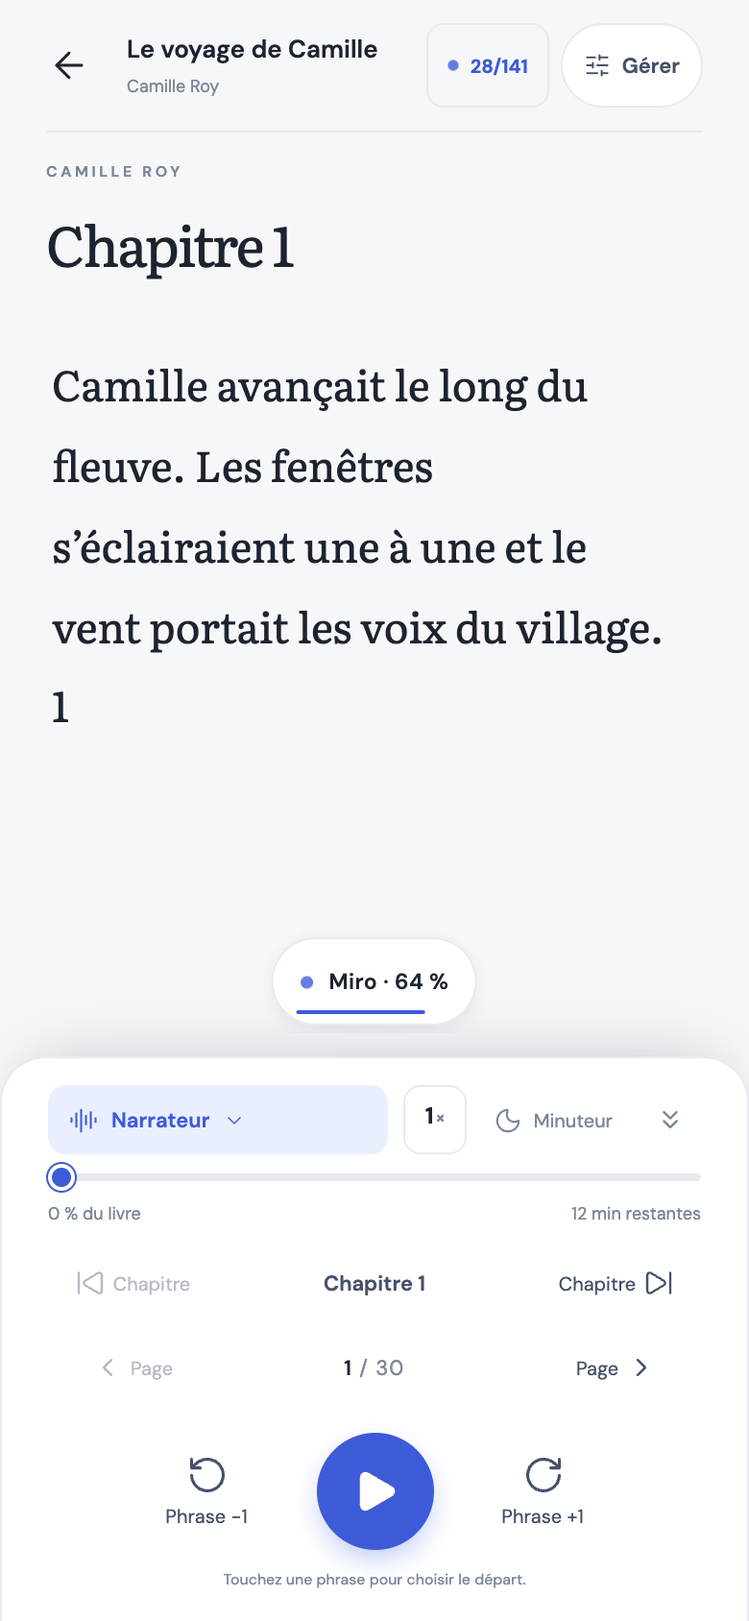
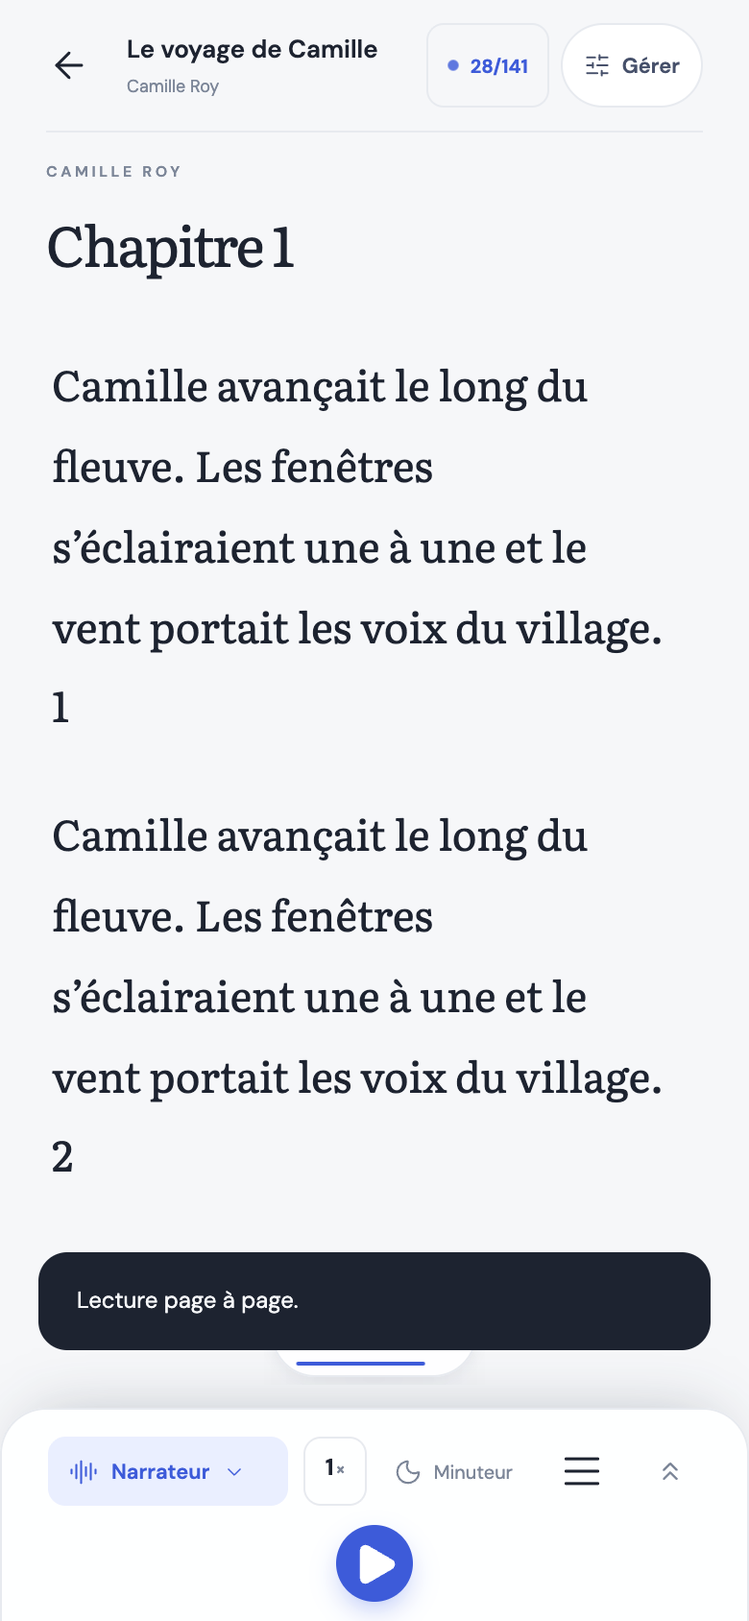
ADD: apercu sonore par voix et mini lecteur avec repagination reelle

Changed region(s): [[0.0308, 0.5545, 0.9538, 1.0], [0.0615, 0.4929, 0.8, 0.5545], [0.6462, 0.955, 0.6769, 0.9858]]

diff --git a/src/mobile/main.ts b/src/mobile/main.ts
@@ -75,6 +75,9 @@ let page = 0;
 let pages: Page[] = [];
 let pagesKey = '';
 let pagesChapter = -1;
+/** Hauteur du lecteur au dernier découpage : les pages suivent l'espace réel,
+ *  mini-lecteur ou commandes complètes. */
+let pagesHauteur = -1;
 let fontsChecked = false;
 /** Les défilements déclenchés par l'app sont ignorés par la détection de geste. */
 let scrollGuard = 0;
@@ -292,10 +295,10 @@ function playerHTML() {
   const speaker = characterAt(book, book.position)?.name || '';
   const focus = Boolean(settings.focus);
   const status = audio.state.error || (audio.state.preparing?`Préparation ${audio.state.prepared ?? 0} / ${audio.state.total ?? 0} passages`:audio.state.loading?`${speaker?`${speaker} · `:''}La voix prépare le prochain passage…`:isPlaying?`${speaker?`${esc(speaker)} · `:''}${esc(chapter.title)} — laissez l’histoire vous emporter.`:'Touchez une phrase pour choisir le départ.');
-  return `<section class="player ${focus ? 'reduit' : ''}" aria-label="Lecteur audio"><div class="player-top"><button class="voice-chip" data-action="choose-voice">${icon('audio-lines')}<span>${esc(characterAt(book, book.position)?.name || voiceName())}</span>${icon('chevron-down')}</button><button class="speed-chip" data-action="speed" aria-label="Vitesse de ${esc(voiceName())}">${settings.rate.toLocaleString('fr')}<span>×</span></button><button class="sleep-chip ${audio.state.sleepAt?'on':''}" data-action="sleep">${icon('moon')}${audio.state.sleepAt?`${Math.max(1,Math.ceil((audio.state.sleepAt-Date.now())/60000))} min`:'Minuteur'}</button><button class="icon-button focus-button" data-action="focus" aria-label="${focus?'Afficher les commandes':'Réduire le lecteur'}">${icon(focus?'chevrons-up':'chevrons-down')}</button></div>
+  return `<section class="player ${focus ? 'reduit' : ''}" aria-label="Lecteur audio"><div class="player-top"><button class="voice-chip" data-action="choose-voice">${icon('audio-lines')}<span>${esc(characterAt(book, book.position)?.name || voiceName())}</span>${icon('chevron-down')}</button><button class="speed-chip" data-action="speed" aria-label="Vitesse de ${esc(voiceName())}">${settings.rate.toLocaleString('fr')}<span>×</span></button><button class="sleep-chip ${audio.state.sleepAt?'on':''}" data-action="sleep">${icon('moon')}${audio.state.sleepAt?`${Math.max(1,Math.ceil((audio.state.sleepAt-Date.now())/60000))} min`:'Minuteur'}</button><button class="icon-button" data-action="layout" aria-label="${settings.layout === 'pages' ? 'Passer en défilement continu' : 'Passer en lecture page à page'}">${icon(settings.layout === 'pages' ? 'align-justify' : 'book-open')}</button><button class="icon-button focus-button" data-action="focus" aria-label="${focus?'Afficher les commandes':'Réduire le lecteur'}">${icon(focus?'chevrons-up':'chevrons-down')}</button></div>
     <label class="sr-only" for="progress">Position dans le livre</label><input class="progress-slider" id="progress" type="range" min="0" max="${book.segments.length-1}" value="${Math.min(book.position,book.segments.length-1)}" style="--progress:${progress(book)}" /><div class="time-row"><span>${percent(book)} % du livre</span><span>${book.completed?'Lecture terminée':`${minutes(book)} restantes`}</span></div>
     ${readerNavigationView(book, settings.layout)}
-    <div class="transport"><button class="sentence-jump" data-action="previous" aria-label="Revenir d’une phrase">${icon('rotate-ccw')}<span>Phrase −1</span></button><button class="play-button ${audio.state.loading?'loading':''}" data-action="toggle" aria-label="${isPlaying?'Mettre en pause':'Lire à voix haute'}">${icon(audio.state.loading?'loader-circle':isPlaying?'pause':'play')}</button><button class="sentence-jump" data-action="next" aria-label="Avancer d’une phrase">${icon('rotate-cw')}<span>Phrase +1</span></button></div><p class="player-status" aria-live="polite">${esc(status)}</p></section>`;
+    <div class="transport"><button class="sentence-jump" data-action="previous" aria-label="Revenir d’une phrase">${icon('rotate-ccw')}<span>Phrase −1</span></button><button class="play-button ${audio.state.loading?'loading':''}" data-action="toggle" aria-label="${isPlaying?'Mettre en pause':'Lire à voix haute'}">${icon(audio.state.loading?'loader-circle':isPlaying?'pause':'play')}</button><button class="sentence-jump" data-action="next" aria-label="Avancer d’une phrase">${icon('rotate-cw')}<span>Phrase +1</span></button></div><p class="player-status" aria-live="polite">${esc(status)}</p><span class="player-mini-progress" style="width:${percent(book)}%" aria-hidden="true"></span></section>`;
 }
 function nowBar() {
   return `<aside class="now-bar" id="now-bar" hidden data-action="follow" role="button" tabindex="0" aria-label="Revenir à la phrase en cours"><span class="now-wave" aria-hidden="true"><b></b><b></b><b></b></span><div class="now-copy"><small>EN COURS · <span id="now-chapter"></span></small><p id="now-text"></p></div><span class="now-return">${icon('locate-fixed')}<i>Revenir</i></span></aside>`;
@@ -354,7 +357,7 @@ function mountPages(reset = false) {
   const eyebrow = document.querySelector('#page-eyebrow'); const heading = document.querySelector('#page-heading');
   if (eyebrow) eyebrow.textContent = book.sample ? 'PRENDRE LE TEMPS' : book.author.toUpperCase();
   if (heading) heading.textContent = chapter.title;
-  const key = [book.id, chapter.start, settings.fontSize, settings.theme, innerWidth, innerHeight].join(':');
+  const key = [book.id, chapter.start, settings.fontSize, settings.theme, innerWidth, innerHeight, pagesHauteur].join(':');
   if (reset || key !== pagesKey || pagesChapter !== chapter.start) {
     const title = document.querySelector<HTMLElement>('.page-title');
     title?.style.removeProperty('display');
@@ -404,7 +407,16 @@ function syncNowBar() {
 function observePlayer() {
   playerObserver?.disconnect();
   const player = document.querySelector<HTMLElement>('.player'); if (!player) return;
-  const apply = () => document.documentElement.style.setProperty('--player-h', `${Math.ceil(player.getBoundingClientRect().height)}px`);
+  const apply = () => {
+    const hauteur = Math.ceil(player.getBoundingClientRect().height);
+    document.documentElement.style.setProperty('--player-h', `${hauteur}px`);
+    // Le lecteur se replie ou se déplie : les pages sont redécoupées pour
+    // remplir l'espace réellement disponible, jamais avec une hauteur périmée.
+    if (hauteur !== pagesHauteur) {
+      pagesHauteur = hauteur;
+      if (screen === 'reader' && settings.layout === 'pages' && document.querySelector('#page-text')) mountPages();
+    }
+  };
   apply();
   playerObserver = new ResizeObserver(apply);
   playerObserver.observe(player);
@@ -966,6 +978,27 @@ async function handle(action: string, el: HTMLElement) {
     case 'listen': await openBook(id, true); break;
     case 'toggle': if (audio.state.playing || audio.state.loading) await audio.pause(); else if (book) { if (audio.state.bookId !== book.id) await audio.load(book, settings); await requestChapterPlayback(book); } break;
     case 'chapter-voices-confirm': await confirmChapterReview(); break;
+    case 'chapter-voice-preview': {
+      const review = chapterReview;
+      if (!review) break;
+      // On écoute la voix sélectionnée dans la liste, pas seulement la proposée.
+      const select = sheet.querySelector<HTMLSelectElement>(`[data-role-id="${id}"]`);
+      const voice = select?.value.trim() || 'system:default';
+      const chapter = review.book.chapters.find(c => c.start === review.start);
+      let text = '';
+      if (chapter) for (let i = chapter.start; i < chapter.end && !text; i++) {
+        if (review.book.casting?.assignments[String(i)] === id) text = review.book.segments[i];
+      }
+      const role = review.choices.find(c => c.role.id === id)?.role;
+      const demo = welcomeBook();
+      demo.id = 'voice-preview'; demo.title = 'Aperçu de la voix';
+      demo.segments = [text || `Bonjour, je m’appelle ${role?.name ?? 'ce personnage'}. Voici la voix que je proposerai pour ce livre.`];
+      await audio.pause();
+      await audio.load(demo, { ...settings, voice });
+      await audio.play();
+      toast('Aperçu de la voix en cours.');
+      break;
+    }
     case 'previous': await seekTo(audio.state.index - 1); break;
     case 'next': await seekTo(audio.state.index + 1); break;
     case 'sentence': await seekTo(Number(el.dataset.index)); break;

diff --git a/store/website/index.html b/store/website/index.html
@@ -14,7 +14,7 @@
 <main id="top"><header class="hero"><div class="eyebrow">macOS · Apple Silicon · Open source</div><h1><span class="fr">Ta voix.<br>À toi. En local.</span><span class="en">Your voice.<br>Yours. Local.</span></h1><p class="intro"><span class="fr">Enregistre ou importe une voix, écris ton texte, puis écoute le résultat. Le traitement s’effectue sur ton Mac.</span><span class="en">Record or import a voice, write your text, then listen. Processing runs on your Mac.</span></p><div class="actions"><a class="button" href="https://github.com/mondary/Macos_PKvoicecloner/releases/latest/download/PKVoiceCloner-2026.10.45.dmg"><span class="fr">Télécharger le DMG · v2026.10.45</span><span class="en">Download DMG · v2026.10.45</span> ↗</a><a class="button secondary" href="https://github.com/mondary/Macos_PKvoicecloner"><span class="fr">Voir le projet</span><span class="en">Explore the project</span></a></div><p class="note"><span class="fr">Apple Silicon · macOS 14+ · Le DMG v2026.10.45 contient l’app seule : son installation nécessite le dépôt et l’environnement Python. Voir la procédure ci-dessous.</span><span class="en">Apple Silicon · macOS 14+ · The v2026.10.45 DMG contains the app only; it requires the project checkout and Python environment. See setup below.</span></p><div class="demo"><img src="gifs/demo-large-1200.gif" alt="Démonstration du studio : bibliothèque vocale, génération et lecture du résultat" fetchpriority="high"></div></header>
 <section class="section" id="studio"><div class="section-head"><div class="overline"><span class="fr">Un studio, pas un service cloud</span><span class="en">A studio, not a cloud service</span></div><h2><span class="fr">De l’enregistrement à la voix générée.</span><span class="en">From recording to generated speech.</span></h2><p><span class="fr">Les étapes essentielles dans une interface macOS : bibliothèque vocale, textes, moteurs et génération.</span><span class="en">The essentials in a macOS interface: voice library, texts, engines and generation.</span></p></div><div class="features"><article class="feature"><b><span class="fr">Importe ou enregistre</span><span class="en">Import or record</span></b><p><span class="fr">Ajoute un fichier audio ou enregistre au micro.</span><span class="en">Add an audio file or record from your mic.</span></p></article><article class="feature"><b><span class="fr">Transcris et ajuste</span><span class="en">Transcribe and edit</span></b><p><span class="fr">Relis le texte reconnu avant de l’utiliser.</span><span class="en">Review the recognized text before using it.</span></p></article><article class="feature"><b><span class="fr">Choisis un moteur</span><span class="en">Choose an engine</span></b><p><span class="fr">Installe et sélectionne les modèles compatibles depuis le studio.</span><span class="en">Install and select supported models in the studio.</span></p></article><article class="feature"><b><span class="fr">Lire au fil de l’eau</span><span class="en">Live reading</span></b><p><span class="fr">Le bouton Lire fait entendre chaque phrase dès qu’elle est prête ; Générer produit la prise complète, exportable.</span><span class="en">One button plays each sentence as soon as it is ready; Generate produces the full, exportable take.</span></p></article></div><div class="screens"><figure><img src="screenshots/voix-reference@2x.png" alt="Bibliothèque de voix et référence audio" loading="lazy"><figcaption><span class="fr">Bibliothèque de voix</span><span class="en">Voice library</span></figcaption></figure><figure><img src="screenshots/generation-resultat@2x.png" alt="Texte, réglages de génération et lecteur audio" loading="lazy"><figcaption><span class="fr">Génération et écoute</span><span class="en">Generation and playback</span></figcaption></figure></div></section>
 <section class="section" id="reader">
-<div class="section-head"><div class="overline"><span class="fr">PK Reader · Android · 2026.10.80</span><span class="en">PK Reader · Android · 2026.10.80</span></div><h2><span class="fr">Un personnage. Une voix. C’est tout.</span><span class="en">One character. One voice. That’s all.</span></h2><p><span class="fr">Importe ton livre, vérifie les passages attribués et choisis tes voix. La navigation chapitre, page et phrase est regroupée près du lecteur. Les téléchargements restent visibles dans des notifications fixes.</span><span class="en">Import your book, review assigned passages and choose your voices. Chapter, page and sentence navigation is grouped near playback. Downloads stay visible in fixed notifications.</span></p></div>
+<div class="section-head"><div class="overline"><span class="fr">PK Reader · Android · 2026.10.81</span><span class="en">PK Reader · Android · 2026.10.81</span></div><h2><span class="fr">Un personnage. Une voix. C’est tout.</span><span class="en">One character. One voice. That’s all.</span></h2><p><span class="fr">Importe ton livre, vérifie les passages attribués et choisis tes voix. Le lecteur réduit laisse plusieurs paragraphes par page, avec bascule pages/défilement. Les téléchargements restent visibles dans des notifications fixes.</span><span class="en">Import your book, review assigned passages and choose your voices. The collapsed player leaves several paragraphs per page, with a paged/scrolling toggle. Downloads stay visible in fixed notifications.</span></p></div>
 <div class="features">
 <article class="feature"><b><span class="fr">Préparer et écouter</span><span class="en">Prepare and listen</span></b><p><span class="fr">Le chapitre à écouter est analysé en priorité ; la lecture démarre pendant que le reste du livre s’analyse. Dix voix françaises Piper, dont une à 13 Mo.</span><span class="en">The chapter you want to hear is analysed first; playback starts while the rest of the book is analysed. Ten French Piper voices, one of them 13 MB.</span></p></article>
 <article class="feature"><b><span class="fr">Analyse IA sans Mac</span><span class="en">AI analysis without a Mac</span></b><p><span class="fr">Connecte ton fournisseur IA dans Réglages. Le compteur reste près de Gérer ; sans configuration, le repérage local est disponible. La durée dépend du livre et du modèle.</span><span class="en">Connect your AI provider in Settings. The counter stays beside Manage; local detection is available without configuration. Duration depends on the book and model.</span></p></article>

diff --git a/store/media-kit/settings-apropos.html b/store/media-kit/settings-apropos.html
@@ -502,9 +502,12 @@ details code { display: block; overflow-wrap: anywhere; background: var(--line-s
 .support-kofi:hover { border-color: var(--accent); }
 .chapter-voice-choices { border: 0; padding: 0; margin: 12px 0; min-width: 0; }
 .chapter-voice-choice { display: grid; gap: 8px; padding: 12px 0; border-bottom: 1px solid var(--line); }
-.chapter-voice-choice > span { display: flex; justify-content: space-between; gap: 12px; font-size: 13px; }
-.chapter-voice-choice small { color: var(--muted); font-size: 11px; }
-.chapter-voice-choice select { width: 100%; min-height: 44px; background: var(--surface); color: var(--ink); border: 1px solid var(--line); border-radius: 10px; font: inherit; padding: 10px; }
+.chapter-voice-head { display: flex; justify-content: space-between; align-items: baseline; gap: 12px; font-size: 13px; }
+.chapter-voice-head small { color: var(--muted); font-size: 11px; }
+.chapter-voice-row { display: flex; align-items: center; gap: 8px; }
+.chapter-voice-row select { flex: 1; min-width: 0; width: 100%; min-height: 44px; background: var(--surface); color: var(--ink); border: 1px solid var(--line); border-radius: 10px; font: inherit; padding: 10px; }
+.chapter-voice-row .small-button { flex: none; min-height: 44px; }
+@media (max-width: 365px) { .chapter-voice-row { flex-wrap: wrap; } .chapter-voice-row .small-button { width: 100%; } }
 .chapter-review > .primary { width: 100%; }
 .chapter-review-status { font-size: 12px; line-height: 1.6; color: var(--ink-soft); }
 @media (max-width: 720px) { .about > .support-kofi { width: 100%; margin: 4px 0 0; } }
@@ -750,10 +753,10 @@ dialog header .icon-button { width: 38px; height: 38px; }
 .casting-library-row>span{display:grid;gap:6px;min-width:0;text-align:left}
 .casting-library-row strong{overflow-wrap:anywhere}
 .casting-library-row small{color:var(--muted);font-weight:400}
-</style></head><body><div class="app-shell"><main class="main-content"><header class="page-heading"><div><p class="eyebrow">FAITES COMME CHEZ VOUS</p><h1>À votre rythme<span>.</span></h1></div><span class="build-chip">2026.10.80</span></header>
+</style></head><body><div class="app-shell"><main class="main-content"><header class="page-heading"><div><p class="eyebrow">FAITES COMME CHEZ VOUS</p><h1>À votre rythme<span>.</span></h1></div><span class="build-chip">2026.10.81</span></header>
   <div class="segmented settings-tabs" role="group" aria-label="Sections des réglages"><button data-action="settings-tab" data-id="lecture" class="" aria-pressed="false"><i data-lucide="book-open" aria-hidden="true"></i><span>Lecture</span></button><button data-action="settings-tab" data-id="voix" class="" aria-pressed="false"><i data-lucide="audio-lines" aria-hidden="true"></i><span>Voix & analyse</span></button><button data-action="settings-tab" data-id="apropos" class="active" aria-pressed="true"><i data-lucide="info" aria-hidden="true"></i><span>À propos</span></button></div>
   <div class="settings-pane">
-  <section class="update-hero" aria-labelledby="update-title"><div class="update-hero-top"><span class="update-icon"><i data-lucide="refresh-cw" aria-hidden="true"></i></span><div class="update-hero-copy"><div class="update-kicker"><p class="eyebrow">PK READER</p><span class="update-badge">À VÉRIFIER</span></div><h2 id="update-title">Mises à jour</h2><p class="update-hero-detail">Version actuelle <strong>2026.10.80</strong>. Vérifiez les nouveautés publiées sur GitHub.</p></div></div><button class="primary update-action"><i data-lucide="refresh-cw" aria-hidden="true"></i> Vérifier les mises à jour</button></section>
+  <section class="update-hero" aria-labelledby="update-title"><div class="update-hero-top"><span class="update-icon"><i data-lucide="refresh-cw" aria-hidden="true"></i></span><div class="update-hero-copy"><div class="update-kicker"><p class="eyebrow">PK READER</p><span class="update-badge">À VÉRIFIER</span></div><h2 id="update-title">Mises à jour</h2><p class="update-hero-detail">Version actuelle <strong>2026.10.81</strong>. Vérifiez les nouveautés publiées sur GitHub.</p></div></div><button class="primary update-action"><i data-lucide="refresh-cw" aria-hidden="true"></i> Vérifier les mises à jour</button></section>
   <section class="settings-section"><h2>Crédits & inspirations</h2><div class="credits-list"><p>PK Reader est un projet original. Son ergonomie de lecture s’inspire de <a href="https://play.google.com/store/apps/details?id=voice.reader.ai" target="_blank" rel="noopener noreferrer">TTS Reader Pro</a> et de <a href="https://readexa.uk/" target="_blank" rel="noopener noreferrer">Readexa</a>.</p><p>Moteurs et bibliothèques : Capacitor, sherpa-onnx, Piper, PDF.js, fflate, Lucide, DM Sans et Literata — licences dans <code>THIRD_PARTY.md</code>.</p></div></section>
-  <section class="settings-section about"><span class="brand-mark"><i data-lucide="audio-lines" aria-hidden="true"></i></span><div><h2>PK Reader <span>2026.10.80</span></h2><p>Vos livres. Votre rythme. Votre voix.</p></div><a class="support-kofi" href="https://ko-fi.com/pouark" target="_blank" rel="noopener noreferrer"><i data-lucide="coffee" aria-hidden="true"></i><span>Soutenir sur Ko-fi</span><i data-lucide="arrow-up-right" aria-hidden="true"></i></a></section>
+  <section class="settings-section about"><span class="brand-mark"><i data-lucide="audio-lines" aria-hidden="true"></i></span><div><h2>PK Reader <span>2026.10.81</span></h2><p>Vos livres. Votre rythme. Votre voix.</p></div><a class="support-kofi" href="https://ko-fi.com/pouark" target="_blank" rel="noopener noreferrer"><i data-lucide="coffee" aria-hidden="true"></i><span>Soutenir sur Ko-fi</span><i data-lucide="arrow-up-right" aria-hidden="true"></i></a></section>
   </div></main></div></body></html>

diff --git a/src/mobile/reader.css b/src/mobile/reader.css
@@ -16,16 +16,19 @@
 .reader-mode.has-player #analysis-activities { bottom: calc(var(--player-h, 320px) + 12px); }
 .reader-navigation { margin-top: 8px; }
 .reader-nav-row { display: grid; grid-template-columns: 88px minmax(0, 1fr) 88px; align-items: center; gap: 4px; }
-.reader-nav-button { display: inline-flex; align-items: center; justify-content: center; gap: 4px; min-height: 44px; border-radius: 9px; font-size: 10px; color: var(--ink-soft); }
+.reader-nav-button { display: inline-flex; align-items: center; justify-content: center; gap: 4px; min-height: 40px; border-radius: 9px; font-size: 10px; color: var(--ink-soft); }
 .reader-nav-button svg { width: 16px; height: 16px; }
 .reader-nav-button:hover:not(:disabled) { background: var(--accent-soft); }
-.reader-nav-location { min-height: 44px; font-size: 11px; font-weight: 600; color: var(--ink-soft); overflow: hidden; text-overflow: ellipsis; white-space: nowrap; }
+.reader-nav-location { min-height: 40px; font-size: 11px; font-weight: 600; color: var(--ink-soft); overflow: hidden; text-overflow: ellipsis; white-space: nowrap; }
 .reader-nav-row .page-count { min-width: 0; font-size: 11px; }
 .sentence-jump { display: grid; justify-items: center; align-content: center; gap: 4px; min-height: 48px; min-width: 76px; border-radius: 10px; color: var(--ink-soft); }
 .sentence-jump svg { width: 22px; height: 22px; }
 .sentence-jump span { font-size: 10px; }
 .sentence-jump:hover { background: var(--accent-soft); }
 .player.reduit .reader-navigation, .player.reduit .sentence-jump { display: none; }
+/* Mini-lecteur : fine ligne de progression à la place du curseur complet. */
+.player-mini-progress { display: none; position: absolute; left: 0; bottom: 0; height: 2px; background: var(--accent-fill); border-radius: 999px; transition: width 0.3s ease; }
+.player.reduit .player-mini-progress { display: block; }
 .reader-header small { display: block; font-size: 10px; color: var(--muted); margin-top: 5px; }
 .reader-subhead { display: flex; align-items: center; gap: 6px; padding: 10px 0; color: var(--muted); border-bottom: 1px solid var(--line-soft); }
 .chapter-step { width: 40px; height: 40px; border-radius: 50%; display: grid; place-items: center; color: var(--muted); flex: none; }
@@ -111,10 +114,10 @@
   position: fixed; bottom: 0; left: 50%; transform: translateX(-50%); width: min(100%, 788px); z-index: 20;
   background: var(--glass-strong); backdrop-filter: blur(24px) saturate(1.4);
   border: 1px solid var(--line); border-bottom: 0; border-radius: 24px 24px 0 0;
-  padding: 18px 30px calc(14px + var(--safe-bottom));
+  padding: 14px 26px calc(12px + var(--safe-bottom));
   box-shadow: 0 -10px 34px -18px rgba(24, 38, 60, 0.35);
 }
-.player-top { display: flex; align-items: center; justify-content: space-between; gap: 16px; margin-bottom: 14px; }
+.player-top { display: flex; align-items: center; justify-content: space-between; gap: 10px; margin-bottom: 10px; }
 .voice-chip { display: flex; align-items: center; gap: 7px; font-size: 11px; min-height: 36px; padding: 7px 11px; border-radius: 9px; background: var(--accent-soft); color: var(--accent); max-width: 65%; font-weight: 600; }
 .voice-chip > span { overflow: hidden; text-overflow: ellipsis; white-space: nowrap; }
 .voice-chip svg { width: 15px; height: 15px; }
@@ -147,7 +150,7 @@ input.progress-slider { appearance: none; -webkit-appearance: none; padding: 0; 
 .progress-slider::-webkit-slider-thumb { appearance: none; -webkit-appearance: none; width: 14px; height: 14px; border-radius: 50%; background: var(--accent); border: 2px solid var(--surface); box-shadow: 0 0 0 1px var(--accent); }
 .progress-slider::-moz-range-thumb { width: 12px; height: 12px; border: 2px solid var(--surface); border-radius: 50%; background: var(--accent); }
 .time-row { display: flex; align-items: center; justify-content: space-between; font-size: 9px; color: var(--muted); margin-top: 11px; font-variant-numeric: tabular-nums; }
-.transport { display: flex; align-items: center; justify-content: center; gap: 30px; margin: 14px 0 0; }
+.transport { display: flex; align-items: center; justify-content: center; gap: 30px; margin: 10px 0 0; }
 .play-button { width: 62px; height: 62px; border-radius: 50%; display: grid; place-items: center; background: var(--accent-fill); color: #fff; box-shadow: 0 6px 16px -4px rgba(53, 94, 231, 0.45); flex-shrink: 0; }
 .play-button:hover { background: var(--accent-deep); }
 .play-button svg { width: 25px; height: 25px; fill: currentColor; stroke-width: 1.5; }

diff --git a/store/media-kit/settings-lecture.html b/store/media-kit/settings-lecture.html
@@ -502,9 +502,12 @@ details code { display: block; overflow-wrap: anywhere; background: var(--line-s
 .support-kofi:hover { border-color: var(--accent); }
 .chapter-voice-choices { border: 0; padding: 0; margin: 12px 0; min-width: 0; }
 .chapter-voice-choice { display: grid; gap: 8px; padding: 12px 0; border-bottom: 1px solid var(--line); }
-.chapter-voice-choice > span { display: flex; justify-content: space-between; gap: 12px; font-size: 13px; }
-.chapter-voice-choice small { color: var(--muted); font-size: 11px; }
-.chapter-voice-choice select { width: 100%; min-height: 44px; background: var(--surface); color: var(--ink); border: 1px solid var(--line); border-radius: 10px; font: inherit; padding: 10px; }
+.chapter-voice-head { display: flex; justify-content: space-between; align-items: baseline; gap: 12px; font-size: 13px; }
+.chapter-voice-head small { color: var(--muted); font-size: 11px; }
+.chapter-voice-row { display: flex; align-items: center; gap: 8px; }
+.chapter-voice-row select { flex: 1; min-width: 0; width: 100%; min-height: 44px; background: var(--surface); color: var(--ink); border: 1px solid var(--line); border-radius: 10px; font: inherit; padding: 10px; }
+.chapter-voice-row .small-button { flex: none; min-height: 44px; }
+@media (max-width: 365px) { .chapter-voice-row { flex-wrap: wrap; } .chapter-voice-row .small-button { width: 100%; } }
 .chapter-review > .primary { width: 100%; }
 .chapter-review-status { font-size: 12px; line-height: 1.6; color: var(--ink-soft); }
 @media (max-width: 720px) { .about > .support-kofi { width: 100%; margin: 4px 0 0; } }
@@ -750,7 +753,7 @@ dialog header .icon-button { width: 38px; height: 38px; }
 .casting-library-row>span{display:grid;gap:6px;min-width:0;text-align:left}
 .casting-library-row strong{overflow-wrap:anywhere}
 .casting-library-row small{color:var(--muted);font-weight:400}
-</style></head><body><div class="app-shell"><main class="main-content"><header class="page-heading"><div><p class="eyebrow">FAITES COMME CHEZ VOUS</p><h1>À votre rythme<span>.</span></h1></div><span class="build-chip">2026.10.80</span></header>
+</style></head><body><div class="app-shell"><main class="main-content"><header class="page-heading"><div><p class="eyebrow">FAITES COMME CHEZ VOUS</p><h1>À votre rythme<span>.</span></h1></div><span class="build-chip">2026.10.81</span></header>
   <div class="segmented settings-tabs" role="group" aria-label="Sections des réglages"><button data-action="settings-tab" data-id="lecture" class="active" aria-pressed="true"><i data-lucide="book-open" aria-hidden="true"></i><span>Lecture</span></button><button data-action="settings-tab" data-id="voix" class="" aria-pressed="false"><i data-lucide="audio-lines" aria-hidden="true"></i><span>Voix & analyse</span></button><button data-action="settings-tab" data-id="apropos" class="" aria-pressed="false"><i data-lucide="info" aria-hidden="true"></i><span>À propos</span></button></div>
   <div class="settings-pane"><div class="settings-group-list"><div class="settings-group"><h3>Thème</h3>
   <div class="theme-picker"><button class="theme-option theme-light active" data-action="theme" data-id="light" aria-pressed="true"><i data-lucide="sun" aria-hidden="true"></i><span>Clair</span></button><button class="theme-option theme-paper " data-action="theme" data-id="paper" aria-pressed="false"><i data-lucide="book-open" aria-hidden="true"></i><span>Papier</span></button><button class="theme-option theme-dark " data-action="theme" data-id="dark" aria-pressed="false"><i data-lucide="moon" aria-hidden="true"></i><span>Nuit</span></button></div></div>

diff --git a/src/mobile/chapter-voices.ts b/src/mobile/chapter-voices.ts
@@ -50,6 +50,7 @@ export function confirmChapterVoices(choices: ChapterVoiceChoice[], selection: R
 }
 
 const esc = (value: string) => value.replace(/[&<>"']/g, c => ({ '&': '&amp;', '<': '&lt;', '>': '&gt;', '"': '&quot;', "'": '&#39;' }[c]!));
+const icon = (name: string) => `<i data-lucide="${name}" aria-hidden="true"></i>`;
 export function chapterReviewView(book: Book, choices: ChapterVoiceChoice[], available: Voice[], ready: boolean, working = false): string {
   const chapter = chapterAt(book);
   const lots = lotsAnalyse(book).filter(l => l.chapterStart === chapter.start);
@@ -62,10 +63,11 @@ export function chapterReviewView(book: Book, choices: ChapterVoiceChoice[], ava
   return `<div class="chapter-review"><p class="sheet-description"><strong>${esc(chapter.title)}</strong><br>${ready ? `${choices.length} rôle${choices.length > 1 ? 's' : ''} · ${installed}/${choices.length} voix installées, ${choices.length - installed} à télécharger.` : `Analyse en cours : ${done}/${lots.length} lots de ce chapitre. Le reste du livre continue en arrière-plan.`}</p>
     <p class="chapter-review-status" role="status">${ready ? `Déjà validées : ${known} · Nouvelles : ${choices.length - known}. Vos choix sont conservés pour tout le livre.` : esc(book.casting?.analysis?.error ?? 'Le bilan des voix apparaît dès que ce chapitre est analysé. Vous pouvez fermer et revenir plus tard.')}</p>
     <fieldset class="chapter-voice-choices" ${working || !ready ? 'disabled' : ''}><legend class="sr-only">Voix du chapitre</legend>
-    ${choices.map((choice, i) => `<label class="chapter-voice-choice" for="chapter-voice-${i}"><span><strong>${esc(choice.role.name)}</strong><small>${choice.confirmed ? 'Mémorisée' : 'Nouvelle proposition'}</small></span>
-      <select id="chapter-voice-${i}" data-role-id="${esc(choice.role.id)}" aria-label="Voix de ${esc(choice.role.name)}">
+    ${choices.map((choice, i) => `<div class="chapter-voice-choice"><div class="chapter-voice-head"><strong>${esc(choice.role.name)}</strong><small>${choice.confirmed ? 'Mémorisée' : 'Nouvelle proposition'}</small></div>
+      <div class="chapter-voice-row"><select id="chapter-voice-${i}" data-role-id="${esc(choice.role.id)}" aria-label="Voix de ${esc(choice.role.name)}">
       ${!pool.some(v => v.id === choice.voice) ? `<option value="${esc(choice.voice)}">${esc(choice.voice)} · indisponible</option>` : ''}
-      ${pool.map(v => `<option value="${esc(v.id)}" ${v.id === choice.voice ? 'selected' : ''}>${esc(v.name)} · ${v.installed ? 'installée' : `à télécharger${v.size ? ` (${v.size} Mo)` : ''}`}</option>`).join('')}</select></label>`).join('')}
+      ${pool.map(v => `<option value="${esc(v.id)}" ${v.id === choice.voice ? 'selected' : ''}>${esc(v.name)} · ${v.installed ? 'installée' : `à télécharger${v.size ? ` (${v.size} Mo)` : ''}`}</option>`).join('')}</select>
+      <button type="button" class="small-button" data-action="chapter-voice-preview" data-id="${esc(choice.role.id)}" aria-label="Écouter un extrait avec la voix choisie pour ${esc(choice.role.name)}">${icon('play')} Écouter</button></div></div>`).join('')}
     </fieldset><button class="primary" data-action="chapter-voices-confirm" ${!ready || working ? 'disabled' : ''}>${working ? 'Installation des voix…' : 'Valider et écouter ce chapitre'}</button>
     <p class="update-note">Les voix à télécharger sont installées après validation. Au prochain chapitre, seuls les nouveaux personnages demandent une confirmation.</p></div>`;
 }

diff --git a/store/media-kit/settings-voix.html b/store/media-kit/settings-voix.html
@@ -502,9 +502,12 @@ details code { display: block; overflow-wrap: anywhere; background: var(--line-s
 .support-kofi:hover { border-color: var(--accent); }
 .chapter-voice-choices { border: 0; padding: 0; margin: 12px 0; min-width: 0; }
 .chapter-voice-choice { display: grid; gap: 8px; padding: 12px 0; border-bottom: 1px solid var(--line); }
-.chapter-voice-choice > span { display: flex; justify-content: space-between; gap: 12px; font-size: 13px; }
-.chapter-voice-choice small { color: var(--muted); font-size: 11px; }
-.chapter-voice-choice select { width: 100%; min-height: 44px; background: var(--surface); color: var(--ink); border: 1px solid var(--line); border-radius: 10px; font: inherit; padding: 10px; }
+.chapter-voice-head { display: flex; justify-content: space-between; align-items: baseline; gap: 12px; font-size: 13px; }
+.chapter-voice-head small { color: var(--muted); font-size: 11px; }
+.chapter-voice-row { display: flex; align-items: center; gap: 8px; }
+.chapter-voice-row select { flex: 1; min-width: 0; width: 100%; min-height: 44px; background: var(--surface); color: var(--ink); border: 1px solid var(--line); border-radius: 10px; font: inherit; padding: 10px; }
+.chapter-voice-row .small-button { flex: none; min-height: 44px; }
+@media (max-width: 365px) { .chapter-voice-row { flex-wrap: wrap; } .chapter-voice-row .small-button { width: 100%; } }
 .chapter-review > .primary { width: 100%; }
 .chapter-review-status { font-size: 12px; line-height: 1.6; color: var(--ink-soft); }
 @media (max-width: 720px) { .about > .support-kofi { width: 100%; margin: 4px 0 0; } }
@@ -750,7 +753,7 @@ dialog header .icon-button { width: 38px; height: 38px; }
 .casting-library-row>span{display:grid;gap:6px;min-width:0;text-align:left}
 .casting-library-row strong{overflow-wrap:anywhere}
 .casting-library-row small{color:var(--muted);font-weight:400}
-</style></head><body><div class="app-shell"><main class="main-content"><header class="page-heading"><div><p class="eyebrow">FAITES COMME CHEZ VOUS</p><h1>À votre rythme<span>.</span></h1></div><span class="build-chip">2026.10.80</span></header>
+</style></head><body><div class="app-shell"><main class="main-content"><header class="page-heading"><div><p class="eyebrow">FAITES COMME CHEZ VOUS</p><h1>À votre rythme<span>.</span></h1></div><span class="build-chip">2026.10.81</span></header>
   <div class="segmented settings-tabs" role="group" aria-label="Sections des réglages"><button data-action="settings-tab" data-id="lecture" class="" aria-pressed="false"><i data-lucide="book-open" aria-hidden="true"></i><span>Lecture</span></button><button data-action="settings-tab" data-id="voix" class="active" aria-pressed="true"><i data-lucide="audio-lines" aria-hidden="true"></i><span>Voix & analyse</span></button><button data-action="settings-tab" data-id="apropos" class="" aria-pressed="false"><i data-lucide="info" aria-hidden="true"></i><span>À propos</span></button></div>
   <div class="settings-pane">
   <section class="settings-section"><div class="section-heading"><h2>Analyse IA du téléphone</h2><span class="pill">FACULTATIF</span></div><p class="section-description">La même analyse des personnages que le studio, appelée directement depuis le téléphone.</p>

diff --git a/src/mobile/style.css b/src/mobile/style.css
@@ -499,9 +499,12 @@ details code { display: block; overflow-wrap: anywhere; background: var(--line-s
 .support-kofi:hover { border-color: var(--accent); }
 .chapter-voice-choices { border: 0; padding: 0; margin: 12px 0; min-width: 0; }
 .chapter-voice-choice { display: grid; gap: 8px; padding: 12px 0; border-bottom: 1px solid var(--line); }
-.chapter-voice-choice > span { display: flex; justify-content: space-between; gap: 12px; font-size: 13px; }
-.chapter-voice-choice small { color: var(--muted); font-size: 11px; }
-.chapter-voice-choice select { width: 100%; min-height: 44px; background: var(--surface); color: var(--ink); border: 1px solid var(--line); border-radius: 10px; font: inherit; padding: 10px; }
+.chapter-voice-head { display: flex; justify-content: space-between; align-items: baseline; gap: 12px; font-size: 13px; }
+.chapter-voice-head small { color: var(--muted); font-size: 11px; }
+.chapter-voice-row { display: flex; align-items: center; gap: 8px; }
+.chapter-voice-row select { flex: 1; min-width: 0; width: 100%; min-height: 44px; background: var(--surface); color: var(--ink); border: 1px solid var(--line); border-radius: 10px; font: inherit; padding: 10px; }
+.chapter-voice-row .small-button { flex: none; min-height: 44px; }
+@media (max-width: 365px) { .chapter-voice-row { flex-wrap: wrap; } .chapter-voice-row .small-button { width: 100%; } }
 .chapter-review > .primary { width: 100%; }
 .chapter-review-status { font-size: 12px; line-height: 1.6; color: var(--ink-soft); }
 @media (max-width: 720px) { .about > .support-kofi { width: 100%; margin: 4px 0 0; } }

diff --git a/src/mobile/tests/chapter-voices.test.ts b/src/mobile/tests/chapter-voices.test.ts
@@ -26,6 +26,11 @@ describe('bilan des voix par chapitre', () => {
     document.body.innerHTML = chapterReviewView(book, choices, voices, true);
     expect(document.body.textContent).toContain('2/2 voix installées');
     expect(document.querySelectorAll('select')).toHaveLength(2);
+    // Chaque association peut être écoutée avant de valider.
+    const ecoutes = document.querySelectorAll<HTMLButtonElement>('[data-action="chapter-voice-preview"]');
+    expect(ecoutes).toHaveLength(2);
+    expect(ecoutes[0].dataset.id).toBe('narrator');
+    expect(ecoutes[1].getAttribute('aria-label')).toContain('Camille');
   });
 
   it('réutilise les voix validées aux chapitres suivants, même après de nouvelles propositions', () => {

diff --git a/src/mobile/types.ts b/src/mobile/types.ts
@@ -62,4 +62,4 @@ export interface Playback {
   /** Suivi de lecture : position et durée du passage (WAV), ou plage du mot lu (TTS). */
   position?: number; duree?: number; mot?: { debut: number; fin: number } | null;
 }
-export const defaults: Settings = { voice: 'system:default', rate: 1, theme: 'light', fontSize: 22, layout: 'pages', server: '', token: '', voiceLangues: false, voiceRates: {}, interligne: 1.95, marges: 0, bande: 0.28, surlignage: 'mots' };
+export const defaults: Settings = { voice: 'system:default', rate: 1, theme: 'light', fontSize: 22, layout: 'pages', server: '', token: '', voiceLangues: false, voiceRates: {}, interligne: 1.95, marges: 0, bande: 0.28, surlignage: 'mots', focus: true };

diff --git a/docs/ANDROID.md b/docs/ANDROID.md
@@ -19,7 +19,7 @@ Le téléphone peut exécuter lui-même l'analyse des personnages avec un fourni
 ### Téléchargements et commandes du lecteur
 
 - Les téléchargements de voix (manuels, depuis les personnages ou pendant la préparation) ont un **suivi fixe sur tous les écrans**. Faire défiler ou changer d’onglet ne le masque pas. « Miro · 100 % · Installée » et les erreurs restent jusqu’à fermeture explicite ; 100 % de transfert seul ne vaut pas installation terminée.
-- La navigation est regroupée en bas près de Lecture/Pause : **Chapitre** (précédent/suivant avec barre), **Page** (chevrons simples et compteur), **Phrase −1 / +1** (flèches circulaires). Plus de chevrons de page dans le corps du texte ni de flèches de chapitre en haut.
+- En lecture, le lecteur se **réduit par défaut** (voix, vitesse, minuteur, lecture, fine ligne de progression) pour laisser plusieurs paragraphes par page. Le chevron du lecteur **déplie toutes les commandes** : **Chapitre** (précédent/suivant avec barre), **Page** (chevrons et compteur), **Phrase −1 / +1** (flèches circulaires). Déplier ou replier redécoupe les pages avec la hauteur réelle. Un bouton du lecteur bascule **pages à tourner / défilement continu** sans quitter le livre.
 - Le titre du chapitre ouvre **Chapitres et signets**, où l’on peut ajouter un signet. Le sélecteur de voix reste dans le lecteur ; les réglages de lecture et la préparation hors ligne sont dans **Gérer**. Les titres « Inconnu » deviennent « Chapitre 1 », « Chapitre 2 », y compris pour les livres déjà importés, sans invalider l’analyse.
 - **Réglages → À propos → Soutenir sur Ko-fi** ouvre `https://ko-fi.com/pouark` ; le bouton remplace le cœur sans texte.
 
@@ -83,7 +83,7 @@ Chaque livre a un bouton **Gérer** visible sur sa fiche dans la bibliothèque, 
 
 ### Bilan automatique du chapitre avant l’écoute
 
-L’import démarre l’analyse. Au clic sur **Écouter**, le bilan du chapitre montre ses personnages, les voix proposées, celles déjà installées et celles à télécharger. Vous pouvez modifier les listes puis **Valider et écouter ce chapitre** ; seules les voix sélectionnées non installées sont alors téléchargées.
+L’import démarre l’analyse. Au clic sur **Écouter**, le bilan du chapitre montre ses personnages, les voix proposées, celles déjà installées et celles à télécharger. Chaque ligne propose **« Écouter »** : un extrait du personnage dans ce chapitre, lu avec la voix sélectionnée dans la liste. Modifiez, écoutez, puis **Validez et écoutez ce chapitre** ; seules les voix sélectionnées non installées sont alors téléchargées.
 
 Une validation fixe l’association personnage → voix dans le livre. Au chapitre suivant, les personnages connus la conservent ; si le chapitre est analysé et toutes ses voix validées/installées, il continue sans confirmation. En cas de nouveau personnage ou d’analyse incomplète, le lecteur s’arrête avant de prononcer le chapitre et affiche le bilan. Le service Android respecte aussi cet arrêt écran verrouillé ; revenez dans l’app pour valider si nécessaire. Les choix restent mémorisés après fermeture de l’app. Le guide de découverte n’exige pas de validation.
 

diff --git a/README.md b/README.md
@@ -2,7 +2,7 @@
 
 [🇫🇷 FR](README.md) · [🇬🇧 EN](README_en.md)
 
-version **2026.10.88** · macOS Apple Silicon · Apache-2.0 · [Changelog](CHANGELOG.md)
+version **2026.10.89** · macOS Apple Silicon · Apache-2.0 · [Changelog](CHANGELOG.md)
 
 📱 **Android** — [télécharger l’APK](https://github.com/mondary/Macos_PKvoicecloner/releases/latest/download/PK-Reader-latest.apk) (lien stable qui suit la dernière version) · 🍎 **macOS** — [DMG 2026.10.66](https://github.com/mondary/Macos_PKvoicecloner/releases/tag/v2026.10.66)
 
@@ -28,7 +28,9 @@ L’application Android **PK Reader** lit vos EPUB, PDF texte et TXT avec les vo
 
 **Valider un chapitre, pas tout le livre** — avant l’écoute, un bilan propose les voix des personnages de ce chapitre, en distinguant celles installées et celles à télécharger. Validez ou modifiez ; ces choix sont conservés pour les chapitres suivants. Si tout est déjà analysé et validé, la lecture continue sans dialogue. Sinon elle attend la validation des nouveaux personnages.
 
-[Installation et guide Android](docs/ANDROID.md) · [APK de la version courante](https://github.com/mondary/Macos_PKvoicecloner/releases/tag/pk-2026.10.80) (release `pk-<version>`, lien direct) · [Changelog Android](src/mobile/CHANGELOG.md)
+**Choisir en écoutant** — chaque proposition se pré-écoute d’un bouton (« Écouter ») sur un extrait du personnage, avec la voix réellement sélectionnée. En lecture, le lecteur se réduit par défaut pour laisser **plusieurs paragraphes par page** ; un chevron déplie toutes les commandes, et un bouton bascule pages à tourner / défilement continu sans quitter le livre.
+
+[Installation et guide Android](docs/ANDROID.md) · [APK de la version courante](https://github.com/mondary/Macos_PKvoicecloner/releases/tag/pk-2026.10.81) (release `pk-<version>`, lien direct) · [Changelog Android](src/mobile/CHANGELOG.md)
 
 > Les APK vivent dans les releases `pk-<version>` (la plus récente en tête de la page des releases). Le badge **Latest** suit la dernière livraison publiée, Android ou macOS : il peut pointer sur le DMG sans que l'APK disparaisse — le lien direct ci-dessus reste valable.
 
